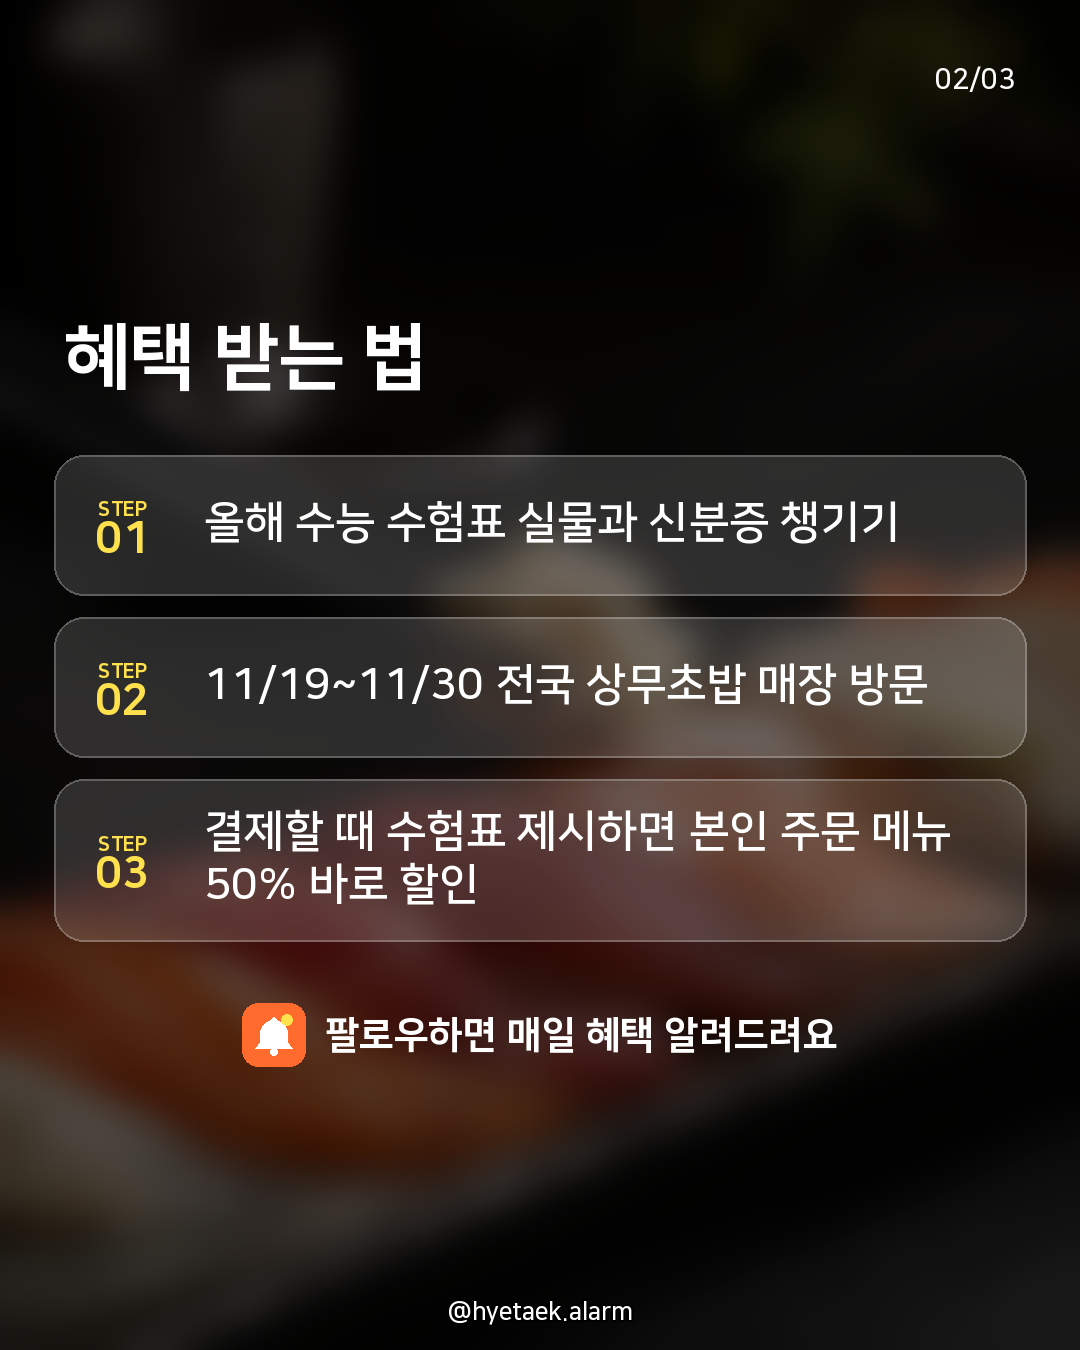
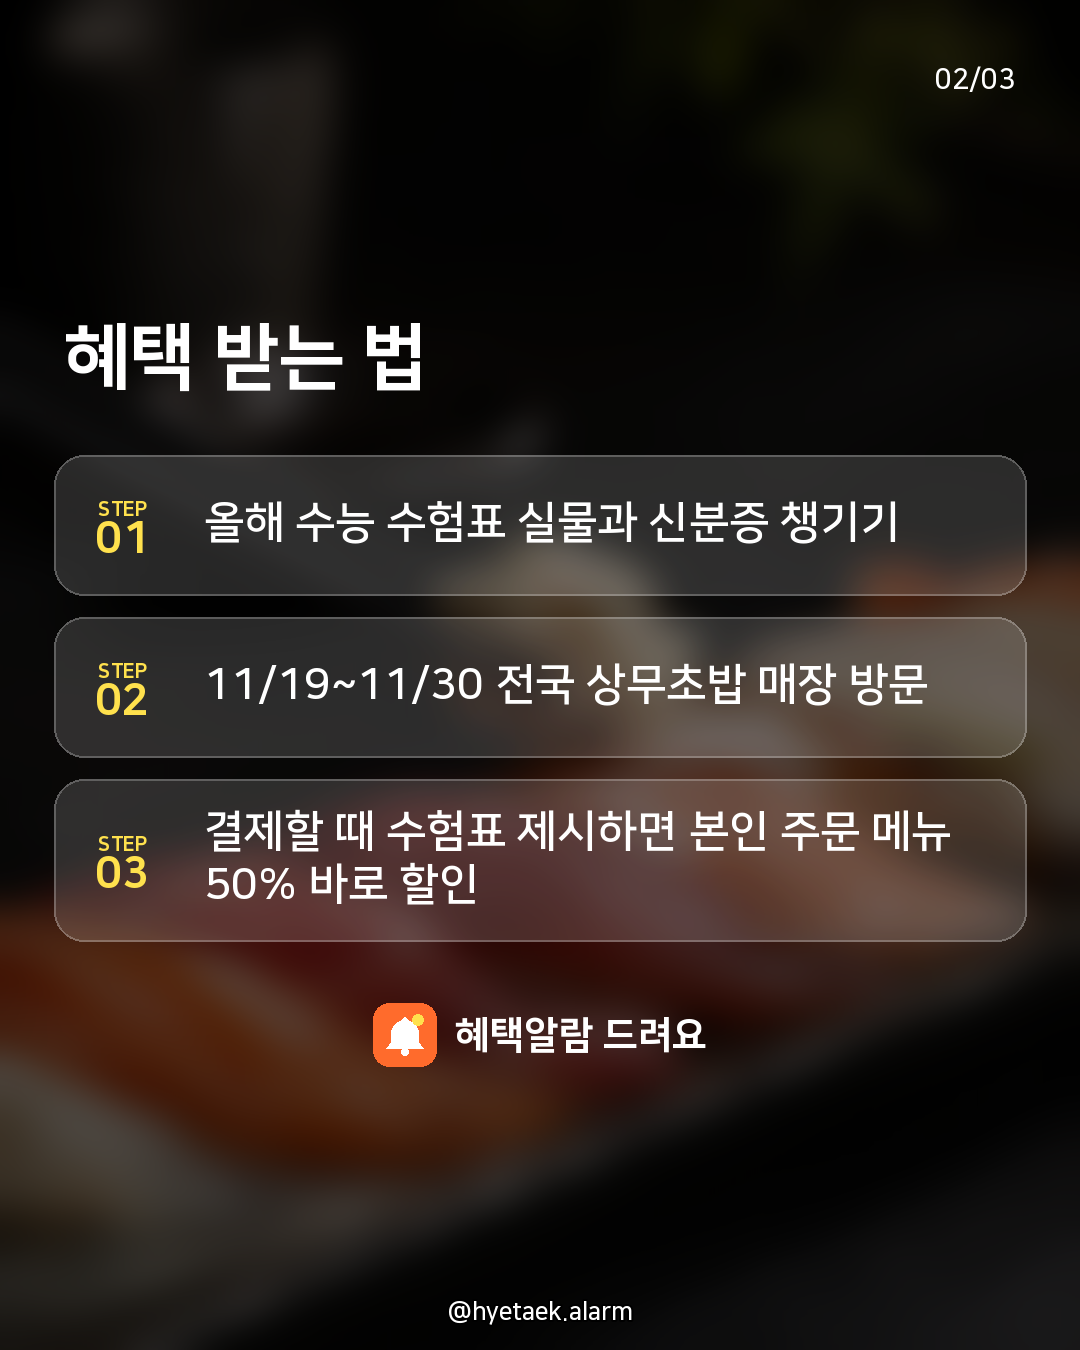
2장 브랜드 문구: '혜택알람 드려요'
Claude-Session: https://claude.ai/code/session_013eU9upJ36tdqKzB4UjrVYH

Changed region(s): [[0.2139, 0.7156, 0.7944, 0.8089]]

diff --git a/CLAUDE.md b/CLAUDE.md
@@ -22,6 +22,6 @@
 
 ## 그 밖에
 - 혜택·할인 정보 게시물(통신사·카드·브랜드 이벤트·쿠폰 등 모든 혜택)은 스크린데일리가 아닌 **별도 채널 '혜택알람'(@hyetaek.alarm)** 이다. `channel: deals` 를 꼭 적는다 (이름·아이디·해시태그·마지막 장이 그 채널 것으로 바뀜, 업로드 계정도 다름).
-- 혜택알람은 **혜택 하나당 캐러셀 3장 고정**: 01 사진 표지(`cover_style: photo`, 굵은 고딕 타이포만(스티커·상자 없음), 후킹용: title 첫 줄 브랜드·둘째 줄 혜택 핵심만, 혜택 줄은 짧게 예: '수험생 반값') → 02 혜택 받는 법(`type: steps`, 배경은 표지 사진을 흐리고 어둡게 + 흰 글씨, STEP 3개 + 그 아래 채널 아이콘·'팔로우하면 매일 혜택 알려드려요' 한 줄(자동, `outro.inline_follow`). 기간·조건·출처는 caption 에) → 03 팔로우 카드(모든 캐러셀 공용: 검정 배경, 프로필과 같은 오렌지 채널 아이콘만 색). 01·02장에는 브랜드 색 배경을 쓰지 않는다(어떤 사진에도 어울리게). 01·02장 하단 가운데에 채널 주소 워터마크(퍼가기 방지), 03장은 큰 아이디가 있어 생략. 공식 확인 안 된 조건은 카드에 쓰지 않는다. 다른 할인 계정의 디자인·문구·스티커를 그대로 따라 하지 않는다. 예시 `drafts/deal_sangmu_1119/`
+- 혜택알람은 **혜택 하나당 캐러셀 3장 고정**: 01 사진 표지(`cover_style: photo`, 굵은 고딕 타이포만(스티커·상자 없음), 후킹용: title 첫 줄 브랜드·둘째 줄 혜택 핵심만, 혜택 줄은 짧게 예: '수험생 반값') → 02 혜택 받는 법(`type: steps`, 배경은 표지 사진을 흐리고 어둡게 + 흰 글씨, STEP 3개 + 그 아래 채널 아이콘·브랜드 문구 '혜택알람 드려요' 한 줄(자동, `outro.inline_follow`). 기간·조건·출처는 caption 에) → 03 팔로우 카드(모든 캐러셀 공용: 검정 배경, 프로필과 같은 오렌지 채널 아이콘만 색). 01·02장에는 브랜드 색 배경을 쓰지 않는다(어떤 사진에도 어울리게). 01·02장 하단 가운데에 채널 주소 워터마크(퍼가기 방지), 03장은 큰 아이디가 있어 생략. 공식 확인 안 된 조건은 카드에 쓰지 않는다. 다른 할인 계정의 디자인·문구·스티커를 그대로 따라 하지 않는다. 예시 `drafts/deal_sangmu_1119/`
 - 초안·시안은 `drafts/` 에 `draft: true` 로 만든다. `queue/` 에 넣으면 예약 시간에 자동 업로드된다.
 - 자동 업로드는 main 브랜치의 `queue/` 만 본다.
